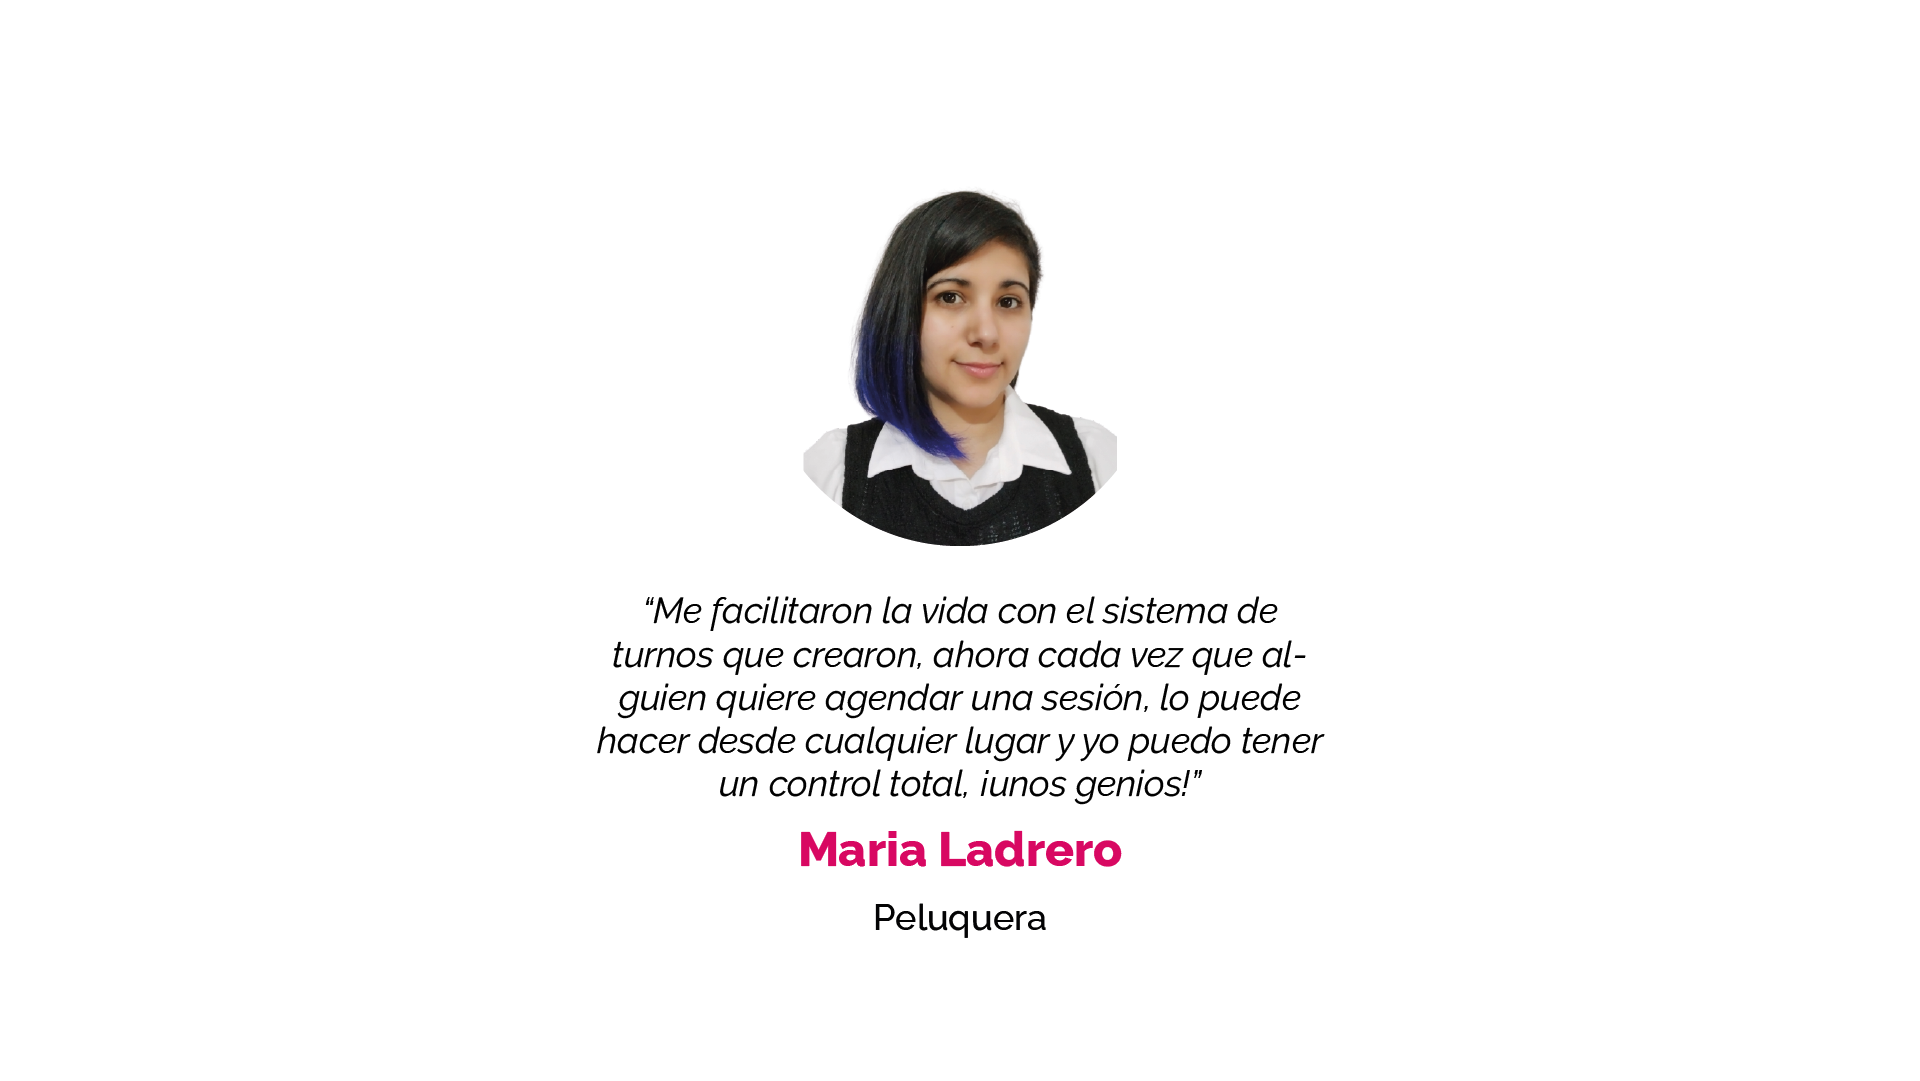
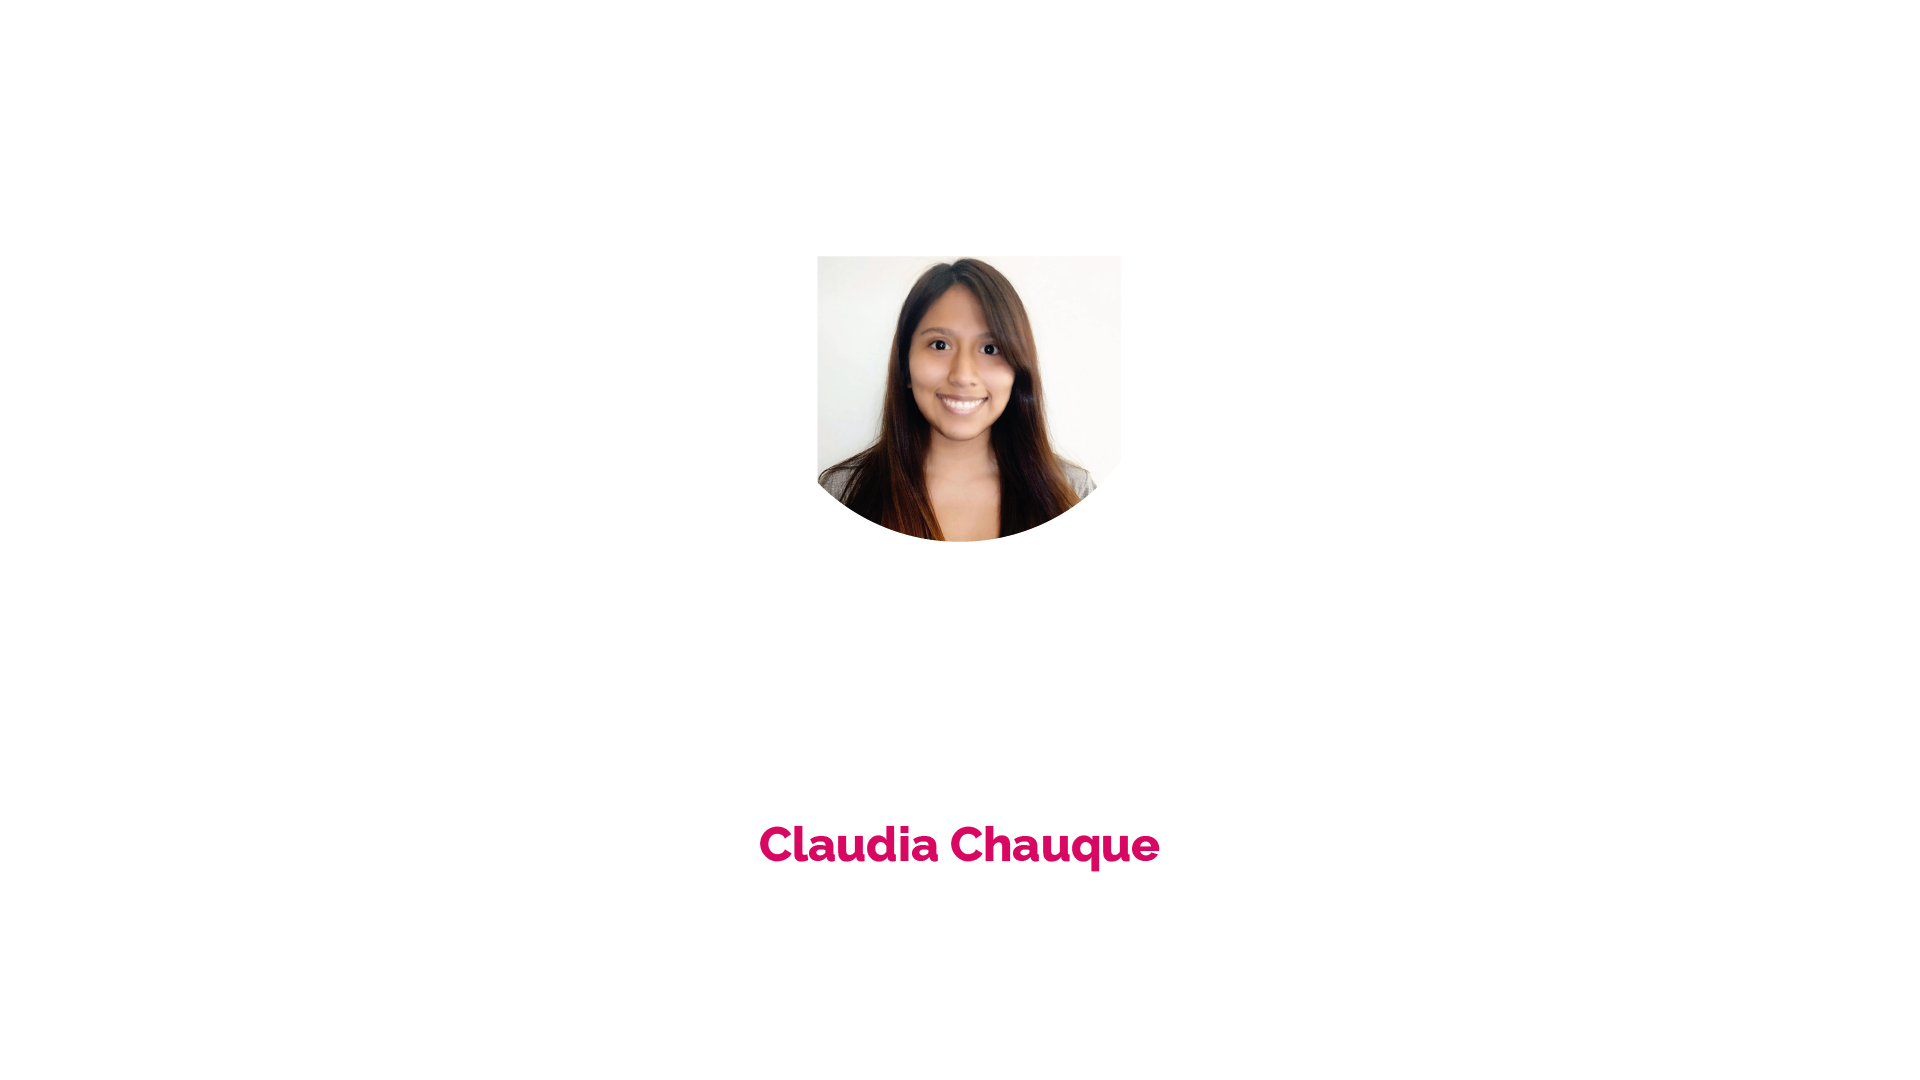
Mejorando seccion testimonios

Changed region(s): [[0.3125, 0.55, 0.6875, 0.7333], [0.4062, 0.1528, 0.5938, 0.5194], [0.375, 0.7639, 0.625, 0.8861]]

diff --git a/recursos/testimonios.css b/recursos/testimonios.css
@@ -20,68 +20,12 @@
     box-sizing: border-box;
 }
 
-.testimonios-titulo{
-    border-bottom: 5px solid var(--color-btn);
-    border-top: 5px solid var(--color-btn);
-    color: var(--color-gris300);
-    font-family: 'Raleway', sans-serif;
-    font: var(--fuente-titulo);
-    margin: 0;
-}
-
-.testimonios-partes{
-    width: 50%;
-    height: 50%;
-    background-color: var(--transparencia);
-    display: flex;
-    justify-content: center;
-    align-items: center;
-}
-
-.testimonios__partes-articulo{
-    display: flex;
-    flex-direction: column;
-    justify-content: center;
-    align-items: center;
-    width: 90%;
-    height: 90%;
-}
-
-.testimonios__articulo-imagen{
-    width: 16%;
-    height: 32%;
-    background-position: center;
-    background-image: url(../img/avatar.png);
-    background-size: cover;
-    background-repeat: no-repeat;
-    border-radius: 100%;
-}
-
-.testimonios__articulo-texto{
-    color: var(--color-gris150);
-    font: var(--fuente-texto);
-}
-
-.testimonios__articulo-cliente{
-    color: var(--color-btn);
-    font: 600 3rem 'Raleway';
-    margin: 0;
-}
-
-.testimonios__articulo-circulo{
-    position: absolute;
-    bottom: 190px;
-    width: 18px;
-    height: 18px;
-    background-color: #000000;
-    border-radius: 100%;
-}
-
 .carousel{
-    width: 40vw;
-    height: 20vh;
+    width: 50vw;
+    background-color: #14192dcf;
+    border-radius: 2.5rem;
 }
 
-.carousel-control-prev,.carousel-control-next{
-    top:120%;
+.btn-c{
+    background-color: black;
 }

diff --git a/testimonios.html b/testimonios.html
@@ -33,18 +33,22 @@
         <div class="carousel-item active">
         <img src="img/testimonio-1.png" class="d-block w-100" alt="...">
         </div>
+
         <div class="carousel-item">
         <img src="img/testimonio-2.png" class="d-block w-100" alt="...">
         </div>
+
         <div class="carousel-item">
         <img src="img/testimonio-3.png" class="d-block w-100" alt="...">
         </div>
+
     </div>
-    <button class="carousel-control-prev" type="button" data-bs-target="#carouselExampleControls" data-bs-slide="prev">
+
+    <button class="carousel-control-prev btn-c" type="button" data-bs-target="#carouselExampleControls" data-bs-slide="prev">
         <span class="carousel-control-prev-icon" aria-hidden="true"></span>
         <span class="visually-hidden">Previous</span>
     </button>
-    <button class="carousel-control-next" type="button" data-bs-target="#carouselExampleControls" data-bs-slide="next">
+    <button class="carousel-control-next btn-c" type="button" data-bs-target="#carouselExampleControls" data-bs-slide="next">
         <span class="carousel-control-next-icon" aria-hidden="true"></span>
         <span class="visually-hidden">Next</span>
     </button>
